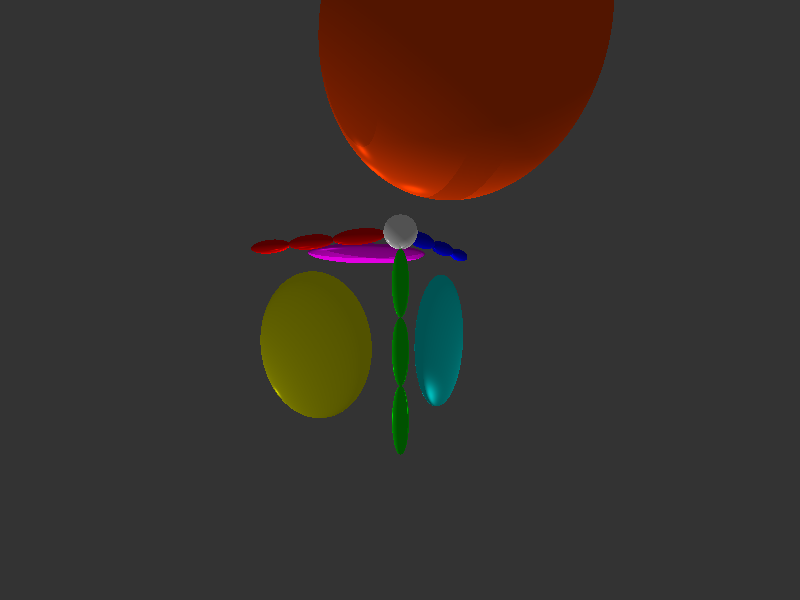
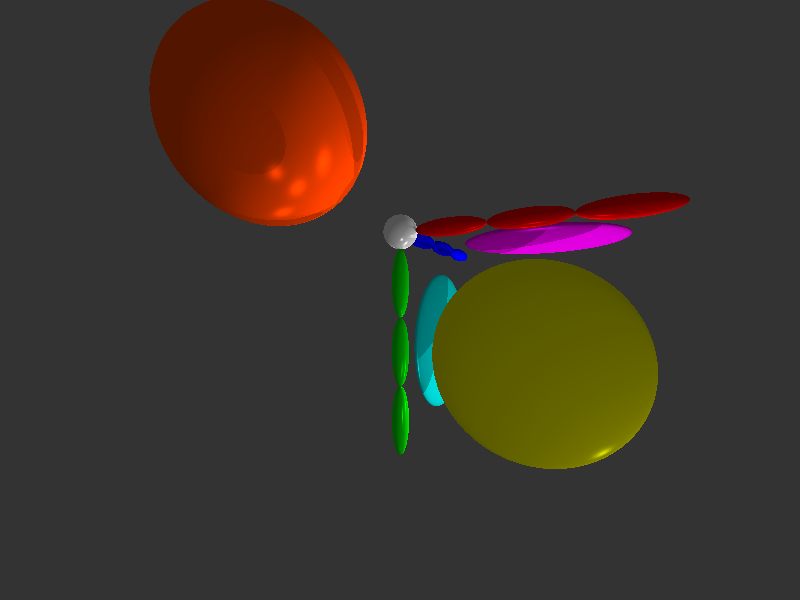
added the nut

diff --git a/rt/Program.cs b/rt/Program.cs
@@ -42,7 +42,7 @@ namespace rt
                 
                 new Sphere(   new Vector(-25.0, -50.0,  75.0),                           25.0, Color.ORANGE),
                 
-                new CtScan("ctscan/walnut.dat", "ctscan/walnut.raw", new Vector(-5.0, -20.0, 105.0), 0.2,
+                new CtScan("ctscan/walnut.dat", "ctscan/walnut.raw", new Vector(25.0, 10.0, 135.0), 0.2,
                     new ColorMap()
                         .Add(1, 1, new Color(0.36, 0.26, 0.16, 0.1))
                         .Add(2, 2, new Color(0.87, 0.72, 0.52, 0.8))
@@ -76,7 +76,7 @@ namespace rt
                 tasks[i] = Task.Run(() =>
                 {
                     var k = ind[0];
-                    var a = (step * k) * Math.PI / 180.0;
+                    var a = -(step * k) * Math.PI / 180.0;
                     var ca =  Math.Cos(a);
                     var sa =  Math.Sin(a);
             

diff --git a/rt/obj/Debug/net8.0/rt.AssemblyInfo.cs b/rt/obj/Debug/net8.0/rt.AssemblyInfo.cs
@@ -13,7 +13,7 @@ using System.Reflection;
 [assembly: System.Reflection.AssemblyCompanyAttribute("rt")]
 [assembly: System.Reflection.AssemblyConfigurationAttribute("Debug")]
 [assembly: System.Reflection.AssemblyFileVersionAttribute("1.0.0.0")]
-[assembly: System.Reflection.AssemblyInformationalVersionAttribute("1.0.0+22660aea95c024e214d1893e7a682e96869c6aeb")]
+[assembly: System.Reflection.AssemblyInformationalVersionAttribute("1.0.0+f89b8cf2dd5b8dcf7f5014b75889ef9abdb7707b")]
 [assembly: System.Reflection.AssemblyProductAttribute("rt")]
 [assembly: System.Reflection.AssemblyTitleAttribute("rt")]
 [assembly: System.Reflection.AssemblyVersionAttribute("1.0.0.0")]

diff --git a/rt/RayTracer.cs b/rt/RayTracer.cs
@@ -71,7 +71,7 @@ namespace rt
                     Vector right = camera.Direction ^ camera.Up;
                     right.Normalize();
                     Vector pixelPosition = camera.Position + camera.Direction * camera.ViewPlaneDistance + 
-                             right * (-x) + camera.Up * (-y);
+                        right * x + camera.Up * (-y);
                     Line ray = new Line(camera.Position, pixelPosition);
                     
                     // Find first intersection
